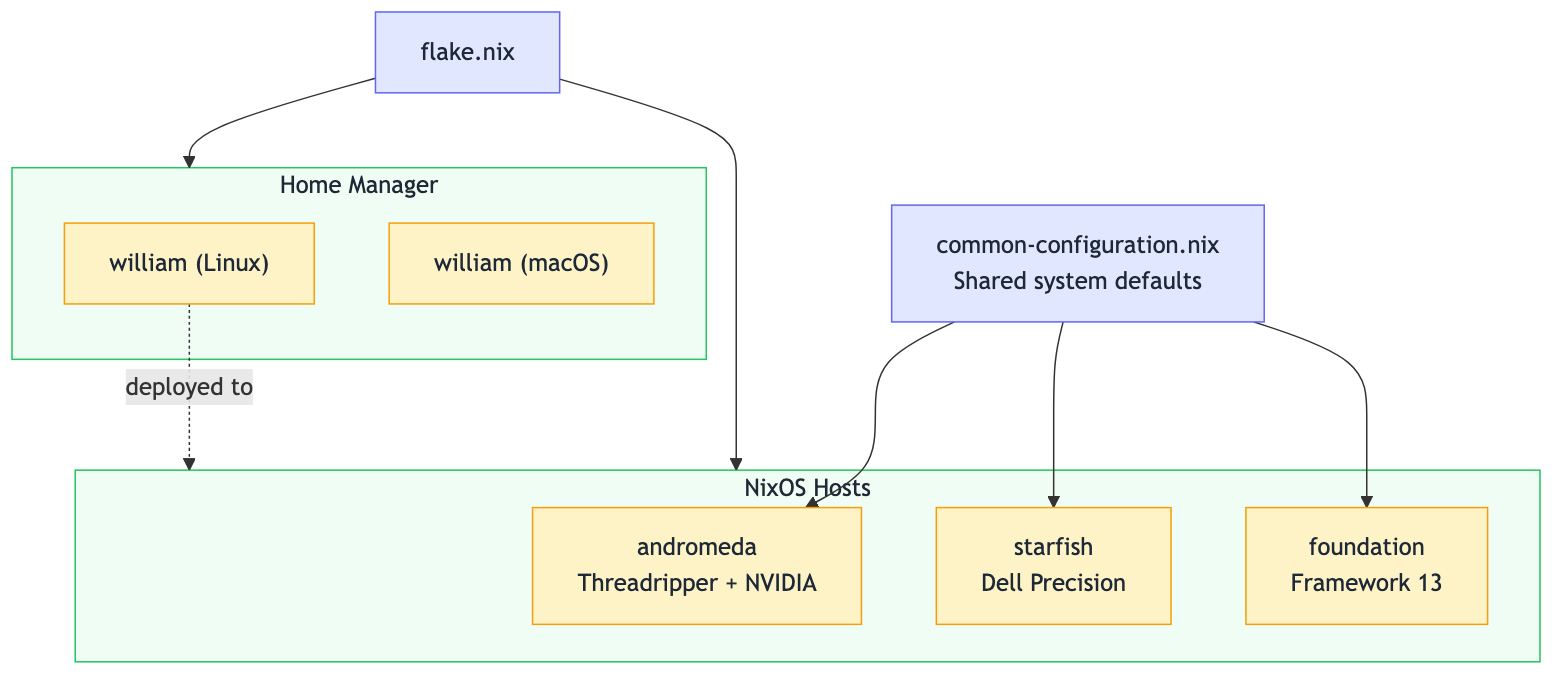
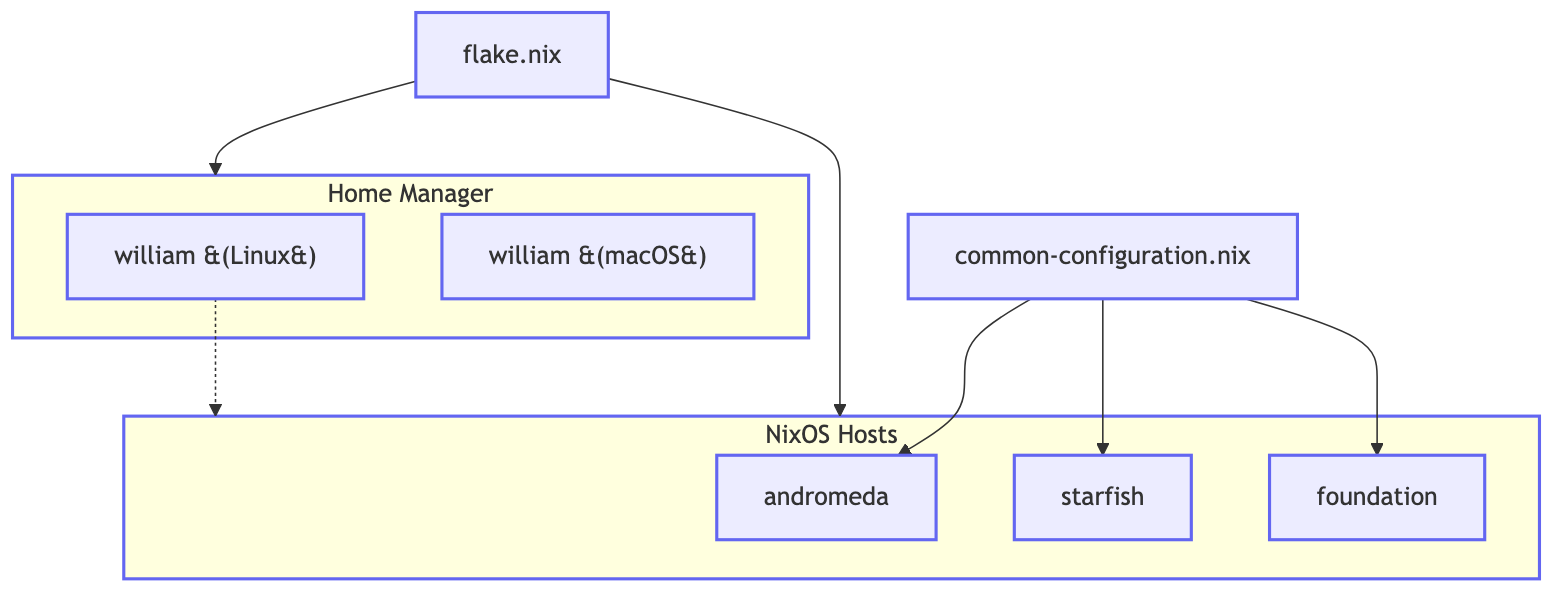
docs(agents): fix Mermaid parentheses rendering and improve documentation
- Use HTML entities (&#40; &#41;) instead of backslashes for node labels
  in README diagrams for clean rendering on GitHub
- Update source .mmd files and re-render PNG previews in docs/diagrams/
- Document the preferred escaping method in mermaid-github-tips.md and
  rendering-diagrams.md under the diagramming skill

Issue: No ticket/issue

diff --git a/home/config/grok/skills/diagramming/references/rendering-diagrams.md b/home/config/grok/skills/diagramming/references/rendering-diagrams.md
@@ -72,16 +72,19 @@ HM_DARWIN[william (macOS)]
 **Error you will see:**
 > Expecting 'SQE', 'DOUBLECIRCLEEND', ... got 'PS'
 
-**Fixed version:**
+**Recommended fix (HTML entities):**
 ```mermaid
-HM_LINUX["william \(Linux\)"]
-HM_DARWIN["william \(macOS\)"]
+HM_LINUX["william &#40;Linux&#41;"]
+HM_DARWIN["william &#40;macOS&#41;"]
 ```
 
-**Why this happens:**
-Mermaid uses `()` to define certain node shapes (e.g. stadium, cylinder). When they appear unescaped inside `[]` labels, the parser gets confused about where the label ends.
+This renders cleanly as **william (Linux)** without any visible backslashes.
 
-**Rule of thumb:** If your label contains `(`, `)`, `[`, `]`, or other special characters, wrap it in double quotes and escape the parentheses with backslashes.
+**Why backslash escaping is not ideal:**
+While `\( \)` prevents the parse error, the backslashes often remain visible in the final rendered diagram on GitHub.
+
+**Better rule of thumb:**
+For special characters in labels (`( ) [ ] & # : ;`), prefer **HTML entities** over backslash escaping when the diagram will be viewed on GitHub. HTML entities give the cleanest visual result.
 
 Other characters that often need escaping or quoting:
 - `&`

diff --git a/home/config/grok/skills/diagramming/references/mermaid-github-tips.md b/home/config/grok/skills/diagramming/references/mermaid-github-tips.md
@@ -5,7 +5,8 @@ GitHub's Mermaid renderer is convenient but has several limitations.
 ## Common Problems
 
 - **Parentheses in labels**: Using unescaped `(` or `)` inside node labels (e.g. `Node[william (Linux)]`) causes parse errors on GitHub.  
-  **Fix**: Quote the label and escape the parentheses → `Node["william \(Linux\)"]`
+  **Recommended fix**: Use HTML entities (cleanest result on GitHub):
+`Node["william &#40;Linux&#41;"]` → renders as **william (Linux)** with no visible escape characters.
 
 - **Subgraphs**: Deep nesting (more than 1-2 levels) often produces ugly or broken layouts.
 - **HTML in nodes**: Using `<br/>`, `<b>`, or `<i>` inside node labels frequently causes rendering bugs or overflow.
